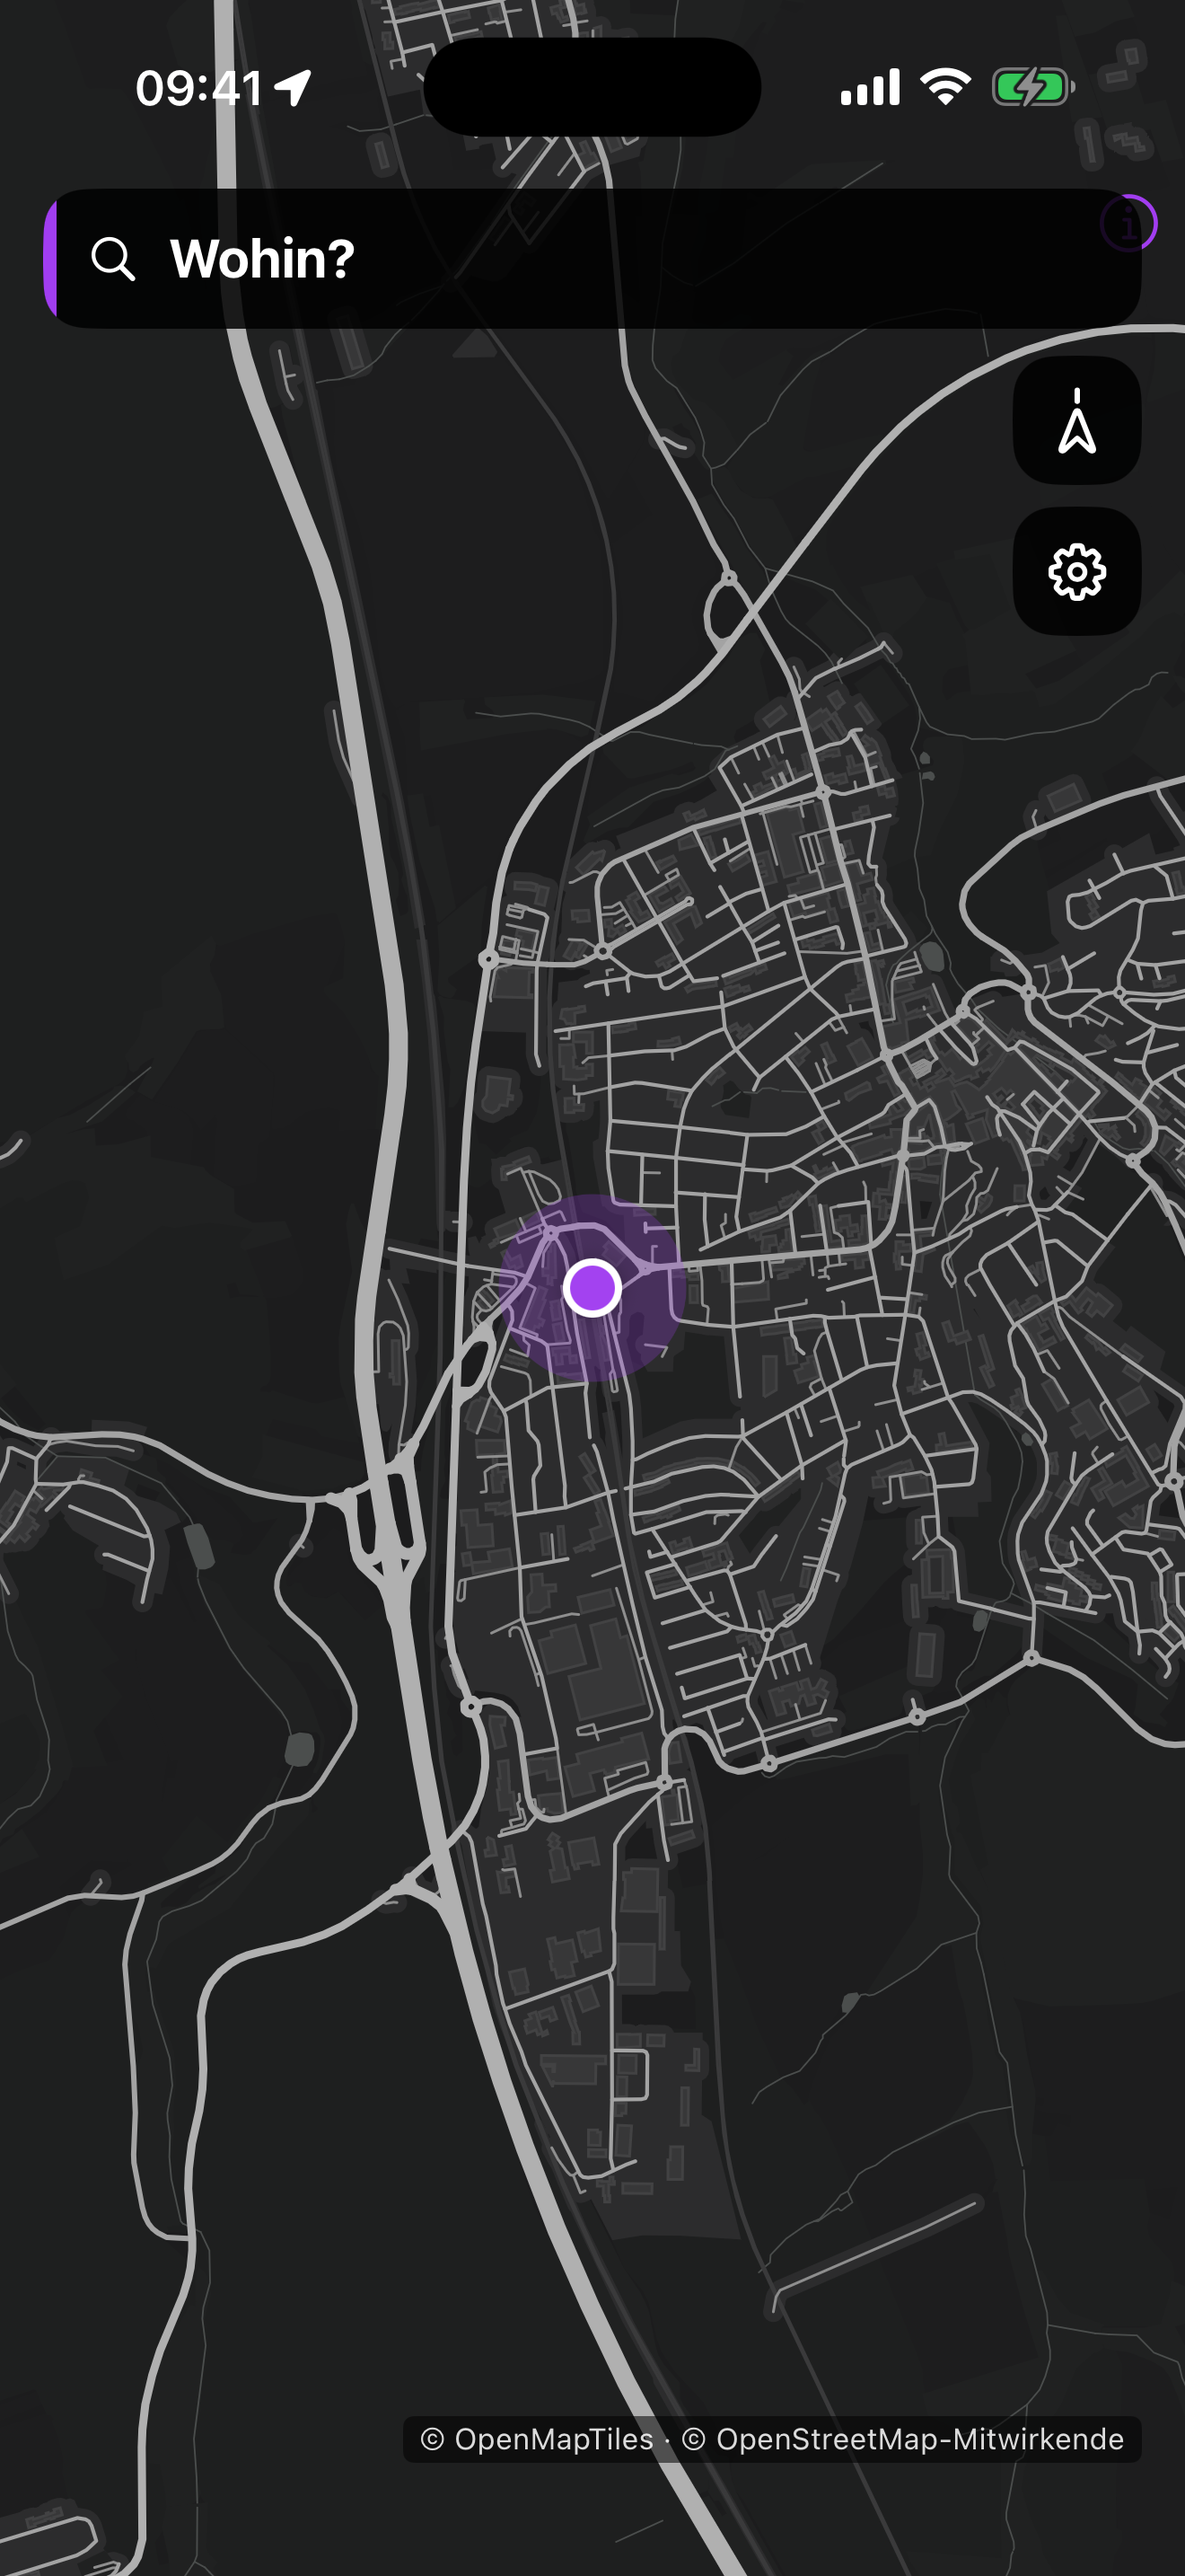
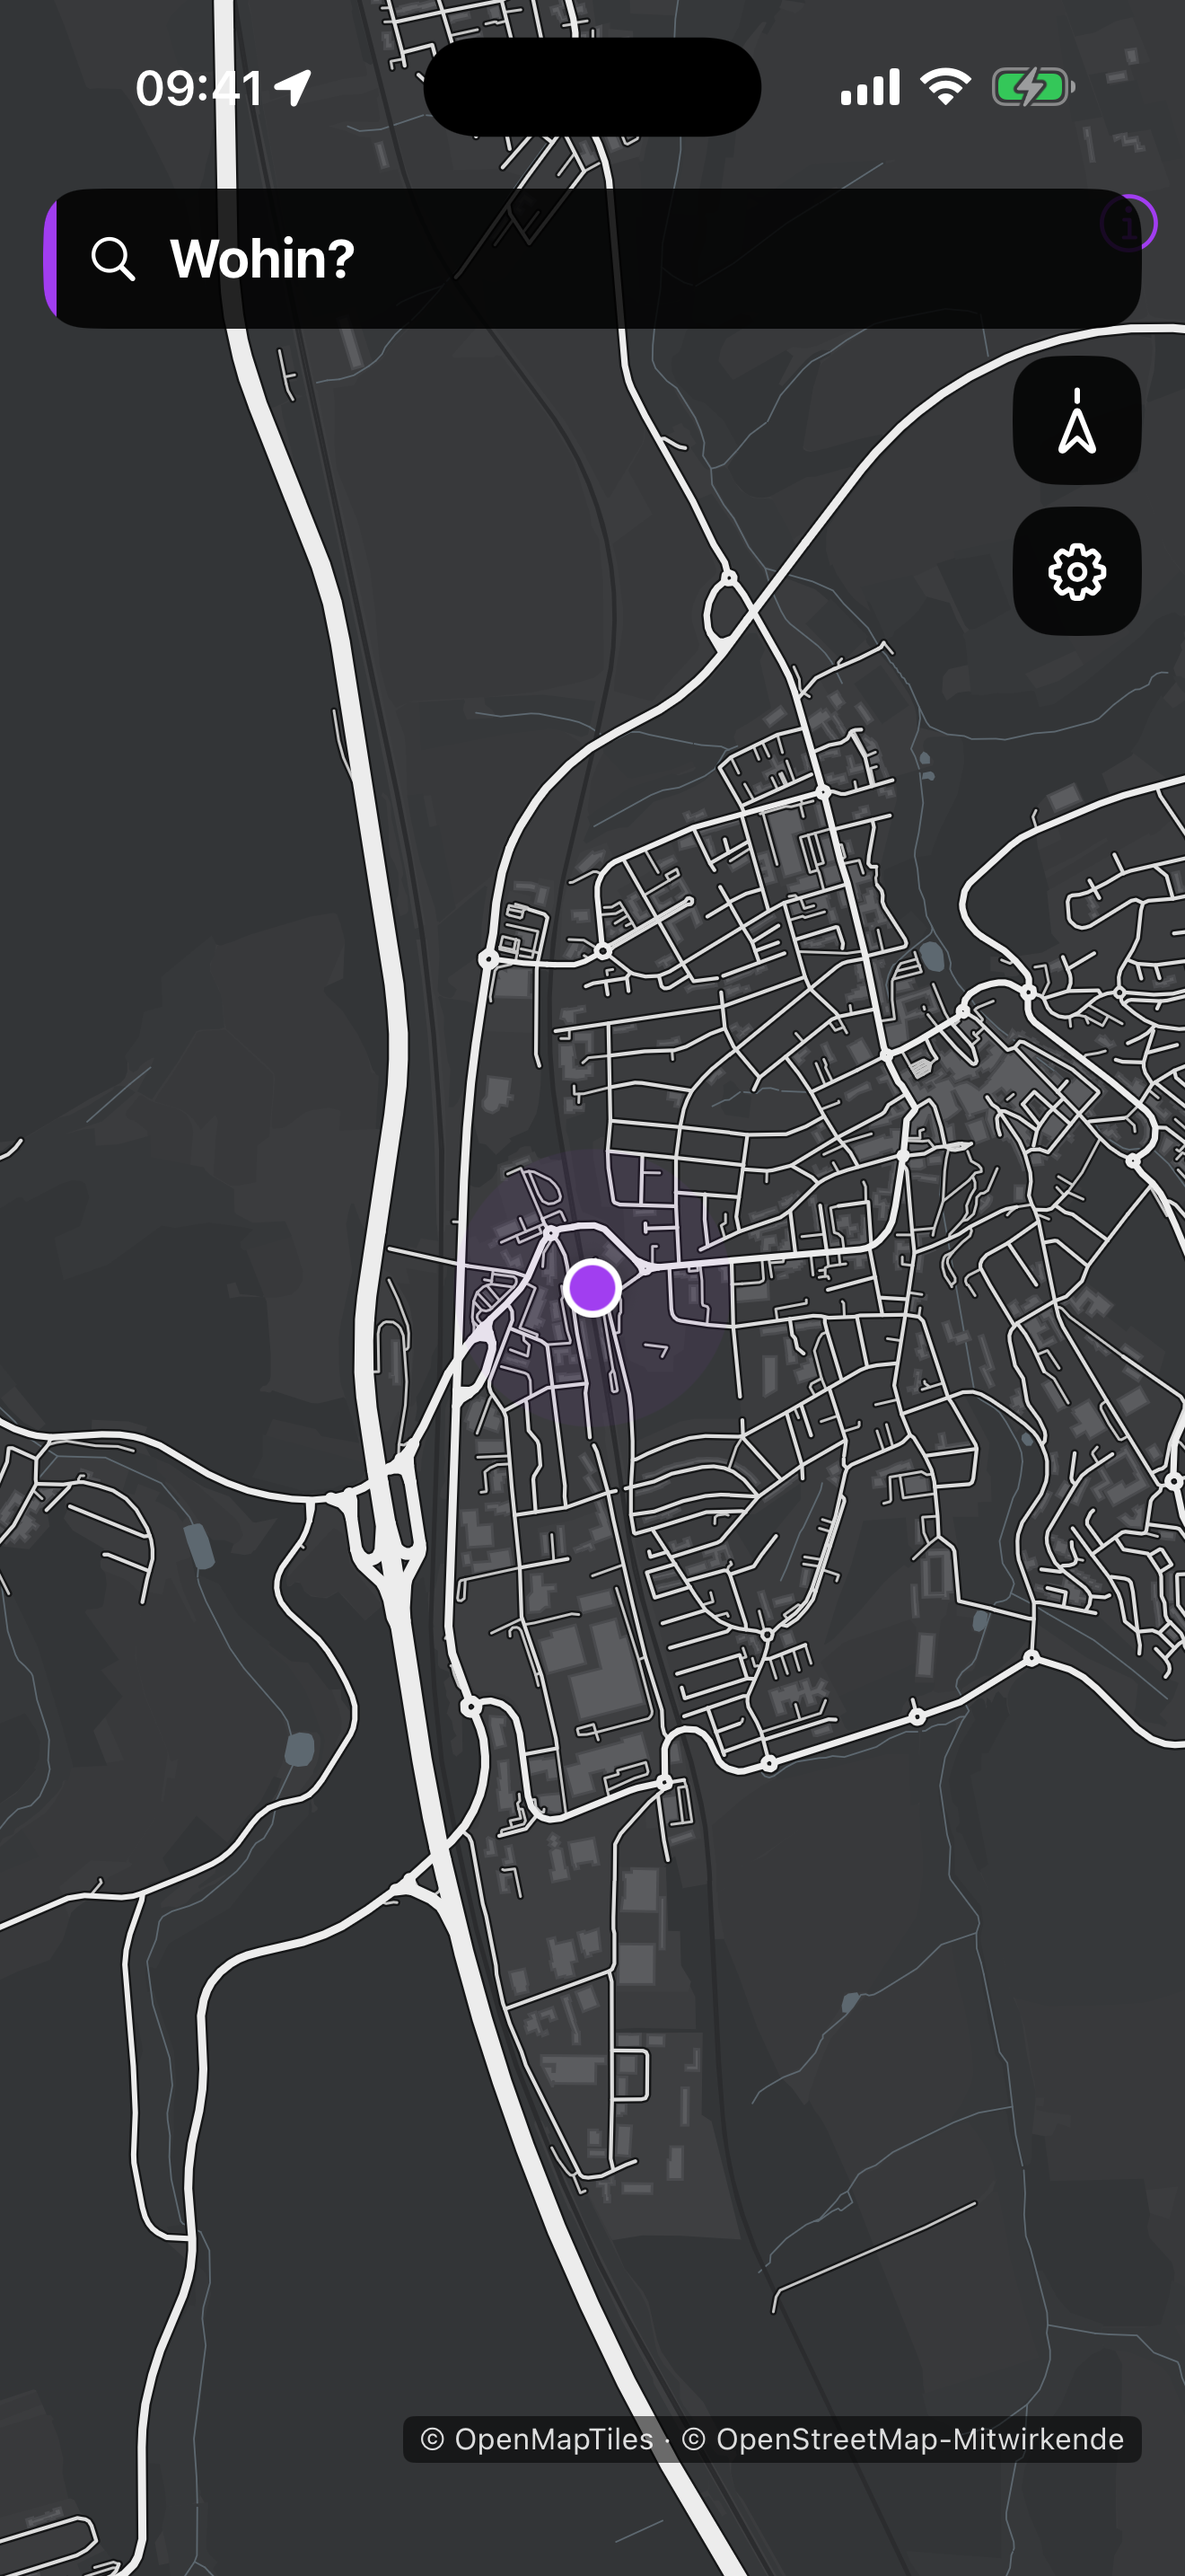
GM-024: Changelog, Store-Screenshots im neuen Look

diff --git a/CHANGELOG.md b/CHANGELOG.md
@@ -2,6 +2,22 @@
 
 Neue Einträge oben. Nummernreihe: `GM-xxx`.
 
+## GM-024 – Neon City nach dem Foto des Nutzers
+
+**Ziel:** Karte auf iPhone und CarPlay wie die Vorlage: mittelgrau, helle Häuser, weiße Straßen mit dunklem Rand, Straßennamen auf der Straße.
+
+**Dateien:** `tools/maplibre/build_style.py`, `App/MapStyles/style-neon-city.json`, `tools/prototype/js/map.js`, `tools/mac_build.sh`, `tools/mac_screens.sh`, `docs/store/iphone-69/*`
+
+**Geändert:**
+- Palette: Boden `#3B3C3E`, Häuser `#5B5C5F`, Straßen `#ECECEC`/`#DCDCDC` mit Rand `#151617`, Wasser `#5D6870`; dunkle „Stadtblöcke“ entfernt
+- Straßennamen (Großbuchstaben, dunkel, entlang der Straße, ab Zoom 15) mit Schrift von OpenFreeMap (Noto Sans Bold)
+- Prototyp gespiegelt (gleiche Werte)
+- `bash tools/mac_screens.sh freigabe`: öffnet am Mac die Einstellung „Bedienungshilfen“ und zeigt `sshd-keygen-wrapper` im Finder
+
+**Tatsächlich geprüft:** Stil mit MapLibre GL JS gerendert und mit dem Foto verglichen; Mac-Build BUILD SUCCEEDED, 27/27 Tests; neue iPhone-Store-Screenshots angesehen.
+
+**Ungetestet:** Kartensymbole (Einkaufskorb, Kreuz …) aus dem Foto fehlen noch in der App. CarPlay-Screenshots hängen an der Freigabe am Mac.
+
 ## GM-023 – Nutzer-Feedback: keine Gedankenstriche, runde Ecken, Pfeil wie Prototyp, Pixel scharf, CarPlay-Bilder
 
 **Ziel:** Rückmeldungen zur ersten echten App umsetzen.
